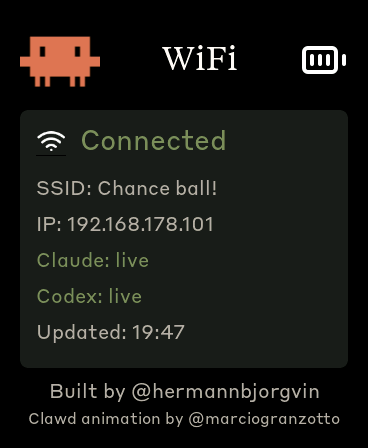
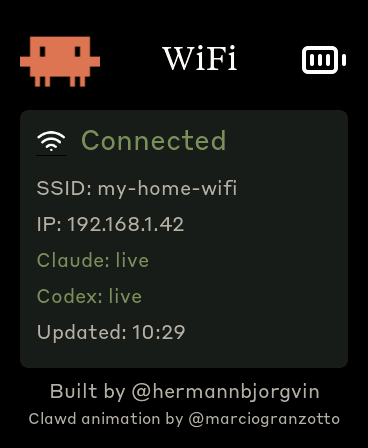
docs(readme): refresh demo assets, redact wifi, dedupe install
## What
Replace the 4 MB phone-shot demo GIF with a 76 KB host-reconstructed
render (new tools/anim_to_gif.py), redact the SSID/IP from the WiFi
screenshot, drop the stale 2.16" usage photo, repoint the headline board
to the 1.8" (Pi Hut) and list all three supported boards. Fix the WiFi
Screens caption (no RSSI row anymore) and fold the duplicated net_config
block into one shared "Configure the firmware" section.

## Why
The old demo GIF was large and an inaccurate phone capture; the WiFi shot
leaked a personal SSID; the README led with a board that isn't the one
pictured and copy-pasted the WiFi config across both OS install sections.

## Trade-offs
GIF reconstructed on-host from the splash source data (tools/svg_anim_data)
rather than captured over serial — the framebuffer streams at ~250 KB/s
(~0.8 fps), too choppy for a faithful loop. WiFi shot re-captured natively
via a temporary SSID/IP override + reflash, not pixel-edited, so the font
bitmaps stay authentic.

Changed region(s): [[0.269, 0.4062, 0.6576, 0.4375], [0.4185, 0.4688, 0.5978, 0.5312], [0.3886, 0.7188, 0.5082, 0.7812]]

diff --git a/tools/anim_to_gif.py b/tools/anim_to_gif.py
@@ -1,0 +1,103 @@
+#!/usr/bin/env python3
+"""Render a splash animation to an animated GIF, pixel-identical to the device.
+
+The firmware draws each splash animation from the palette-indexed binaries in
+`tools/svg_anim_data/` (one byte per pixel, frames concatenated, row-major) over
+the manifest palette — see `splash.cpp::render_frame`. This reconstructs the same
+frames on the host and writes a GIF with the manifest's per-frame hold timing, so
+the result matches what the panel shows without a (slow, glare-prone) camera or
+serial framebuffer capture.
+
+Usage:
+    tools/anim_to_gif.py <anim-name-or-bin> [-o out.gif] [--scale N] [--loops N]
+
+    tools/anim_to_gif.py "working building" -o assets/demo.gif --scale 3
+    tools/anim_to_gif.py clawd_eureka.bin --scale 4
+"""
+import argparse
+import json
+import os
+import sys
+
+from PIL import Image
+
+HERE = os.path.dirname(os.path.abspath(__file__))
+DATA = os.path.join(HERE, "svg_anim_data")
+
+
+def load_manifest():
+    with open(os.path.join(DATA, "manifest.json")) as f:
+        return json.load(f)
+
+
+def find_anim(manifest, key):
+    key_l = key.lower()
+    for a in manifest["animations"]:
+        if a["name"].lower() == key_l or a["bin"].lower() == key_l \
+                or a["bin"].lower() == key_l + ".bin":
+            return a
+    names = ", ".join(a["name"] for a in manifest["animations"])
+    sys.exit(f"animation '{key}' not found. Available: {names}")
+
+
+def hex_to_rgb(h):
+    h = h.lstrip("#")
+    return (int(h[0:2], 16), int(h[2:4], 16), int(h[4:6], 16))
+
+
+def render_frames(anim, scale):
+    w, h, n = anim["width"], anim["height"], anim["frame_count"]
+    palette = [hex_to_rgb(c) for c in anim["palette"]]
+    with open(os.path.join(DATA, anim["bin"]), "rb") as f:
+        raw = f.read()
+    expect = w * h * n
+    if len(raw) != expect:
+        sys.exit(f"{anim['bin']}: expected {expect} bytes, got {len(raw)}")
+    frames = []
+    for i in range(n):
+        cells = raw[i * w * h:(i + 1) * w * h]
+        img = Image.new("RGB", (w, h))
+        img.putdata([palette[c] if c < len(palette) else (0, 0, 0) for c in cells])
+        if scale != 1:
+            img = img.resize((w * scale, h * scale), Image.NEAREST)
+        frames.append(img)
+    return frames
+
+
+def main():
+    ap = argparse.ArgumentParser(description=__doc__,
+                                 formatter_class=argparse.RawDescriptionHelpFormatter)
+    ap.add_argument("anim", help="animation name (e.g. 'working building') or bin filename")
+    ap.add_argument("-o", "--out", help="output GIF path (default: <name>.gif in cwd)")
+    ap.add_argument("--scale", type=int, default=3, help="integer upscale factor (nearest, default 3)")
+    ap.add_argument("--pad-to", metavar="WxH", default=None,
+                    help="center each frame on a black canvas of this size, e.g. 368x448 "
+                         "to mimic the device panel (the firmware centers the art on black)")
+    ap.add_argument("--loops", type=int, default=0, help="loop count, 0 = infinite (default)")
+    args = ap.parse_args()
+
+    manifest = load_manifest()
+    anim = find_anim(manifest, args.anim)
+    frames = render_frames(anim, args.scale)
+    if args.pad_to:
+        pw, ph = (int(v) for v in args.pad_to.lower().split("x"))
+        padded = []
+        for fr in frames:
+            canvas = Image.new("RGB", (pw, ph), (0, 0, 0))
+            canvas.paste(fr, ((pw - fr.width) // 2, (ph - fr.height) // 2))
+            padded.append(canvas)
+        frames = padded
+    durations = anim["holds"]  # ms per frame, straight from the device's timing
+
+    out = args.out or (anim["name"].replace(" ", "_") + ".gif")
+    frames[0].save(
+        out, save_all=True, append_images=frames[1:],
+        duration=durations, loop=args.loops, disposal=2, optimize=True,
+    )
+    px = f"{frames[0].width}x{frames[0].height}"
+    print(f"wrote {out}  ({anim['name']}, {len(frames)} frames, {px}, "
+          f"{sum(durations)} ms loop)")
+
+
+if __name__ == "__main__":
+    main()

diff --git a/README.md b/README.md
@@ -2,11 +2,11 @@
 
 A small ESP32 dashboard I made for my desk to keep an eye on my Claude Code (and Codex) usage at a glance.
 
-It runs on a [Waveshare ESP32-S3-Touch-AMOLED-2.16](https://www.waveshare.com/esp32-s3-touch-amoled-2.16.htm?&aff_id=149786) plus a few other boards (see [Hardware](#hardware)). The device connects to your WiFi network and fetches usage data **directly** from the Anthropic and Codex APIs over TLS, refreshing roughly every 60 seconds. The host runs a small **token broker** that hands the device its API credentials on first boot and whenever a provider returns 401 — otherwise the laptop can be off. The splash screen plays pixel-art Clawd animations that get busier as your usage rate climbs.
+It runs on a [Waveshare ESP32-S3-Touch-AMOLED-1.8](https://thepihut.com/products/esp32-s3-development-board-with-1-8-amoled-touch-display-368-x-448?variant=53995206771073) — plus the original 2.16″ Waveshare and its ESP32-C6 sibling (see [Hardware](#hardware)). The device connects to your WiFi network and fetches usage data **directly** from the Anthropic and Codex APIs over TLS, refreshing roughly every 60 seconds. The host runs a small **token broker** that hands the device its API credentials on first boot and whenever a provider returns 401 — otherwise the laptop can be off. The splash screen plays pixel-art Clawd animations that get busier as your usage rate climbs.
 
-|              Usage meter              |              Clawd animation screen              |
-| :-----------------------------------: | :----------------------------------------------: |
-| ![Usage meter](assets/demo.jpeg) | ![Clawd animation screen](assets/demo.gif) |
+<p align="center">
+  <img src="assets/demo.gif" alt="Clawd animation screen" width="220">
+</p>
 
 The Clawd animations come from the [clawd-tank](https://github.com/marciogranzotto/clawd-tank) SVG set by [@marciogranzotto](https://github.com/marciogranzotto) (MIT). A 4-stage pipeline under `tools/svg_pipeline/` renders and converts them to the C arrays the firmware compiles in.
 
@@ -17,7 +17,7 @@ The device boots into the splash and stays there until you press the middle (PWR
 |              Splash               |              Claude             |              Codex              |              WiFi               |
 | :-------------------------------: | :-----------------------------: | :-----------------------------: | :-----------------------------: |
 | ![Splash](screenshots/amoled_18/splash.png) | ![Claude](screenshots/amoled_18/usage.png) | ![Codex](screenshots/amoled_18/codex.png) | ![WiFi](screenshots/amoled_18/wifi.png) |
-|   Splash; touch-toggle anytime    | Claude session & weekly utilization | Codex session & weekly utilization | Connection diagnostics (SSID / IP / RSSI / data age) |
+|   Splash; touch-toggle anytime    | Claude session & weekly utilization | Codex session & weekly utilization | Connection diagnostics (SSID / IP / Claude & Codex status / data age) |
 
 While the splash is up, the middle button cycles animations instead of screens. The firmware also auto-rotates every 20 s within the current usage-rate group, so a long stretch on the splash isn't just one Clawd on loop.
 
@@ -25,9 +25,9 @@ While the splash is up, the middle button cycles animations instead of screens. 
 
 Boards supported out of the box:
 
-- [Waveshare ESP32-S3-Touch-AMOLED-2.16](https://www.waveshare.com/esp32-s3-touch-amoled-2.16.htm?&aff_id=149786)
-- [Waveshare ESP32-C6-Touch-AMOLED-2.16](https://www.waveshare.com/esp32-c6-touch-amoled-2.16.htm?&aff_id=149786) 
-- [Waveshare ESP32-S3-Touch-AMOLED-1.8](https://www.waveshare.com/esp32-s3-touch-amoled-1.8.htm?&aff_id=149786)
+- [Waveshare ESP32-S3-Touch-AMOLED-1.8](https://www.waveshare.com/esp32-s3-touch-amoled-1.8.htm?&aff_id=149786) — also stocked by [The Pi Hut](https://thepihut.com/products/esp32-s3-development-board-with-1-8-amoled-touch-display-368-x-448?variant=53995206771073) (368×448, the board the screenshots in this README are from)
+- [Waveshare ESP32-S3-Touch-AMOLED-2.16](https://www.waveshare.com/esp32-s3-touch-amoled-2.16.htm?&aff_id=149786) — the original port (480×480 square)
+- [Waveshare ESP32-C6-Touch-AMOLED-2.16](https://www.waveshare.com/esp32-c6-touch-amoled-2.16.htm?&aff_id=149786) — ESP32-C6 variant of the 2.16″
 
 > Please check if a pull request exists for your alternative hardware port before opening a new one, providing QA feedback and testing on the same hardware is more valuable than duplicate pull requests.
 
@@ -41,24 +41,26 @@ Boards supported out of the box:
 - Claude Code with an active subscription (and/or the Codex CLI signed in, if you want the Codex screen)
 - The device and the host machine must be on the same WiFi network
 
-## macOS installation
+## Configure the firmware
 
-The macOS host pieces — Python daemon, LaunchAgent, and flash helper — were ported by [Chris Davidson (@lorddavidson)](https://github.com/lorddavidson). Thanks Chris!
-
-### Configure WiFi credentials
-
-Before flashing, copy `firmware/src/net_config.example.h` to `firmware/src/net_config.h` and fill in your network details:
+Before flashing, copy `firmware/src/net_config.example.h` to `firmware/src/net_config.h` and fill in your network details (gitignored — your real credentials are never committed):
 
 ```c
 #define WIFI_SSID      "YourNetwork"
 #define WIFI_PASSWORD  "YourPassword"
-#define DAEMON_HOST    "my-macbook.local"   // your machine's mDNS hostname
+#define DAEMON_HOST    "my-host.local"   // your machine's mDNS hostname
 #define DAEMON_PORT    8080
 #define BROKER_KEY     "a-long-random-secret"  // must match CLAWDMETER_BROKER_KEY on the broker
 #define FETCH_INTERVAL_MS  60000
 ```
 
 `DAEMON_HOST` is your machine's mDNS hostname (typically `<computer-name>.local`) — no static IP needed. `BROKER_KEY` is a shared secret you choose; set `CLAWDMETER_BROKER_KEY` to the same value in the broker's environment.
+
+Then follow the steps for your OS below — flashing and the token broker differ between macOS and Linux.
+
+## macOS installation
+
+The macOS host pieces — Python daemon, LaunchAgent, and flash helper — were ported by [Chris Davidson (@lorddavidson)](https://github.com/lorddavidson). Thanks Chris!
 
 ### Flash the firmware
 
@@ -89,21 +91,6 @@ launchctl load -w ~/Library/LaunchAgents/com.user.clawdmeter-broker.plist      #
 ```
 
 ## Linux installation
-
-### Configure WiFi credentials
-
-Before flashing, copy `firmware/src/net_config.example.h` to `firmware/src/net_config.h` and fill in your network details:
-
-```c
-#define WIFI_SSID      "YourNetwork"
-#define WIFI_PASSWORD  "YourPassword"
-#define DAEMON_HOST    "my-laptop.local"   // your machine's mDNS hostname
-#define DAEMON_PORT    8080
-#define BROKER_KEY     "a-long-random-secret"  // must match CLAWDMETER_BROKER_KEY on the broker
-#define FETCH_INTERVAL_MS  60000
-```
-
-`DAEMON_HOST` is your machine's mDNS hostname (typically `<computer-name>.local`) — no static IP needed. `BROKER_KEY` is a shared secret you choose; set `CLAWDMETER_BROKER_KEY` to the same value in the broker's environment.
 
 ### Flash the firmware
 